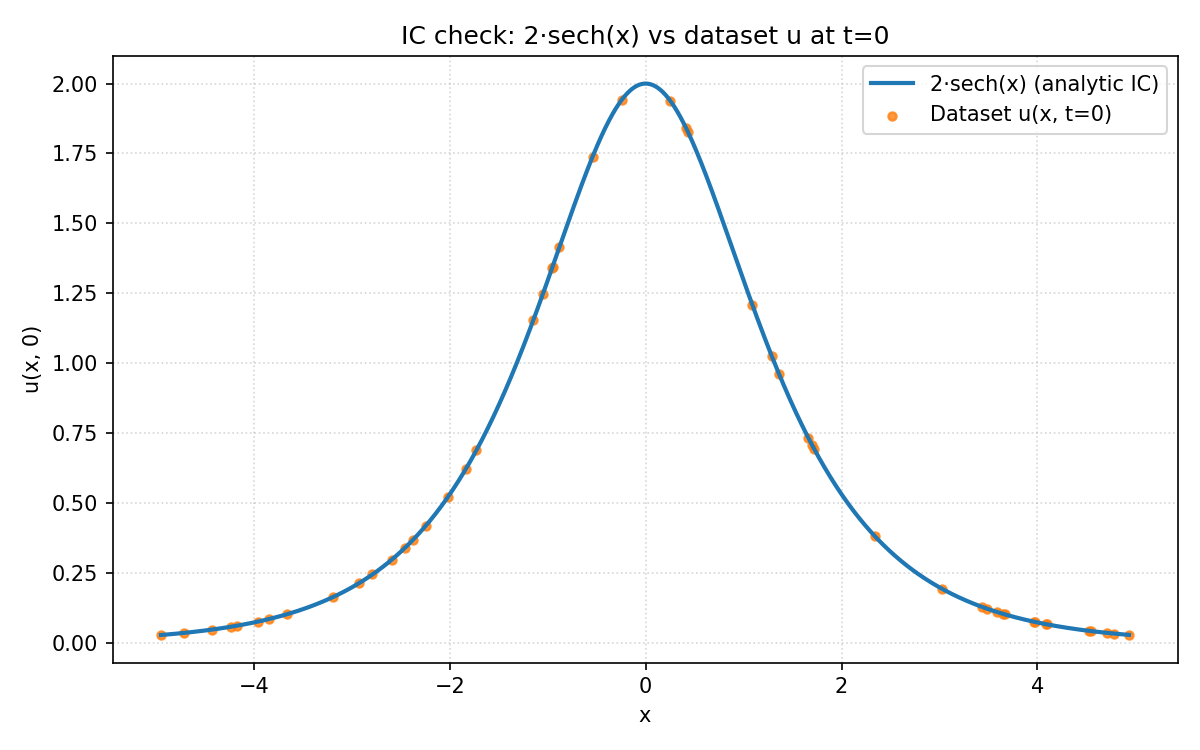
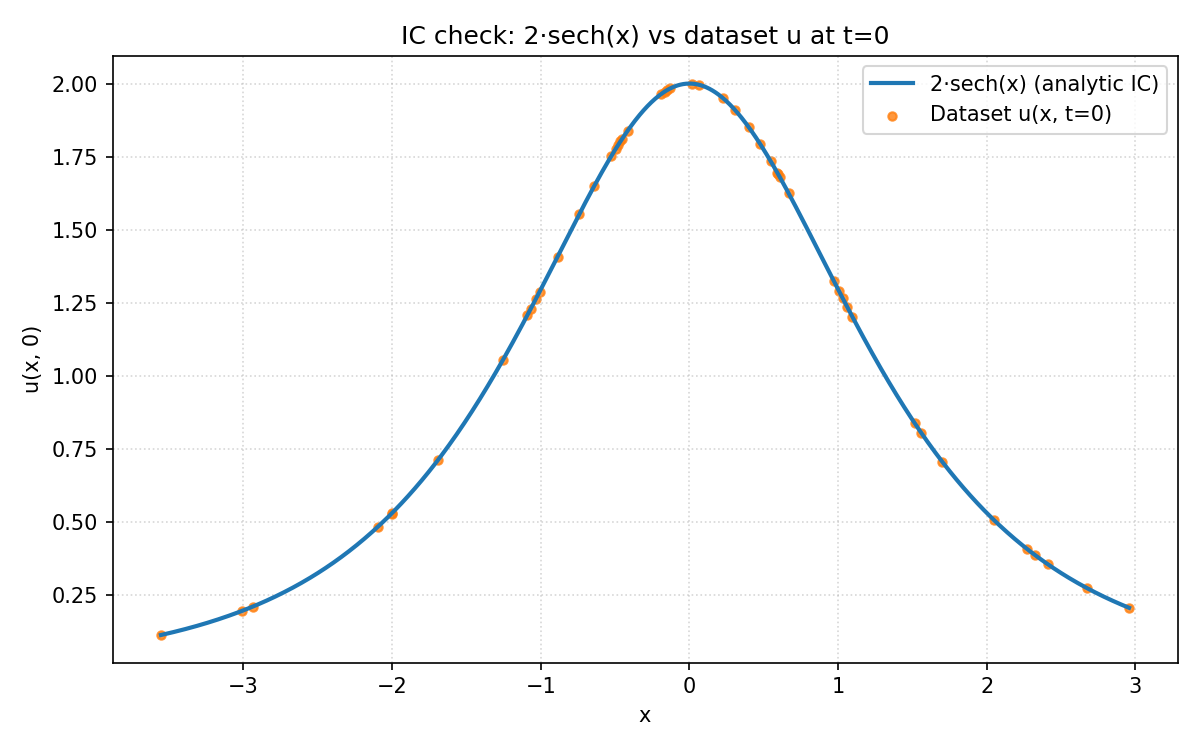
new sample method and notebook changes

diff --git a/tests/visualize_ic_samples.py b/tests/visualize_ic_samples.py
@@ -1,0 +1,201 @@
+"""Visualize initial condition (IC) sample distribution.
+
+This script shows how IC samples are distributed across the spatial domain
+with Gaussian bias toward the center where |h(x,0)| = |2*sech(x)| is large.
+
+Usage:
+    python tests/visualize_ic_samples.py
+"""
+
+import sys
+from pathlib import Path
+
+import matplotlib.pyplot as plt
+import numpy as np
+
+sys.path.insert(0, str(Path(__file__).parent.parent))
+
+from src.config_loader import load_config
+
+
+def sech(x):
+    """Hyperbolic secant function."""
+    return 1.0 / np.cosh(x)
+
+
+def visualize_ic_distribution(
+    n_samples: int = 1000,
+    ic_sigma: float = 1.2,
+    ic_mix: float = 0.7,
+    x_min: float = -5.0,
+    x_max: float = 5.0,
+    seed: int = 42,
+    save_path: str = "outputs/diagnostics/ic_sample_distribution.png",
+):
+    """Visualize IC sample distribution compared to the true IC function.
+    
+    Args:
+        n_samples: Number of samples to generate
+        ic_sigma: Standard deviation for Gaussian distribution
+        ic_mix: Fraction of Gaussian samples
+        x_min: Minimum x value
+        x_max: Maximum x value
+        seed: Random seed
+        save_path: Path to save figure
+    """
+    rng = np.random.RandomState(seed)
+    
+    # Generate samples with Gaussian bias
+    n_gaussian = int(n_samples * ic_mix)
+    n_uniform = n_samples - n_gaussian
+    
+    x_gaussian = rng.normal(loc=0.0, scale=ic_sigma, size=n_gaussian)
+    x_gaussian = np.clip(x_gaussian, x_min, x_max)
+    
+    x_uniform = rng.uniform(x_min, x_max, size=n_uniform)
+    
+    x_samples = np.concatenate([x_gaussian, x_uniform])
+    rng.shuffle(x_samples)
+    
+    # Also generate uniform samples for comparison
+    x_samples_uniform = rng.uniform(x_min, x_max, size=n_samples)
+    
+    # True IC function
+    x_dense = np.linspace(x_min, x_max, 1000)
+    ic_true = 2.0 * sech(x_dense)
+    
+    # Create figure
+    fig, axes = plt.subplots(2, 2, figsize=(14, 10))
+    
+    # Plot 1: Histogram of Gaussian-biased samples
+    ax = axes[0, 0]
+    ax.hist(x_samples, bins=50, alpha=0.7, color='C0', edgecolor='black', density=True)
+    ax.set_xlabel('x')
+    ax.set_ylabel('Sample Density')
+    ax.set_title(f'Gaussian-Biased IC Samples\n({ic_mix*100:.0f}% Gaussian, σ={ic_sigma})')
+    ax.grid(True, alpha=0.3)
+    ax.axvline(0, color='red', linestyle='--', linewidth=1, alpha=0.5, label='x=0 (center)')
+    ax.legend()
+    
+    # Plot 2: Histogram of uniform samples for comparison
+    ax = axes[0, 1]
+    ax.hist(x_samples_uniform, bins=50, alpha=0.7, color='C1', edgecolor='black', density=True)
+    ax.set_xlabel('x')
+    ax.set_ylabel('Sample Density')
+    ax.set_title('Uniform IC Samples (for comparison)')
+    ax.grid(True, alpha=0.3)
+    
+    # Plot 3: Samples vs IC function
+    ax = axes[1, 0]
+    ax.plot(x_dense, ic_true, 'b-', linewidth=2, label='|h(x,0)| = 2·sech(x)')
+    ax.scatter(x_samples, np.zeros_like(x_samples), 
+              alpha=0.3, s=20, color='C0', label=f'Gaussian-biased samples (n={n_samples})')
+    ax.set_xlabel('x')
+    ax.set_ylabel('|h(x, 0)|')
+    ax.set_title('IC Samples vs True IC Function')
+    ax.legend()
+    ax.grid(True, alpha=0.3)
+    
+    # Plot 4: Cumulative distribution comparison
+    ax = axes[1, 1]
+    x_sorted_biased = np.sort(x_samples)
+    x_sorted_uniform = np.sort(x_samples_uniform)
+    cdf_biased = np.arange(1, len(x_sorted_biased) + 1) / len(x_sorted_biased)
+    cdf_uniform = np.arange(1, len(x_sorted_uniform) + 1) / len(x_sorted_uniform)
+    
+    ax.plot(x_sorted_biased, cdf_biased, 'C0-', linewidth=2, label='Gaussian-biased')
+    ax.plot(x_sorted_uniform, cdf_uniform, 'C1--', linewidth=2, label='Uniform')
+    ax.set_xlabel('x')
+    ax.set_ylabel('Cumulative Probability')
+    ax.set_title('Cumulative Distribution Function')
+    ax.legend()
+    ax.grid(True, alpha=0.3)
+    ax.axvline(0, color='red', linestyle=':', linewidth=1, alpha=0.5)
+    
+    plt.tight_layout()
+    
+    # Save figure
+    save_path = Path(save_path)
+    save_path.parent.mkdir(parents=True, exist_ok=True)
+    plt.savefig(save_path, dpi=150, bbox_inches='tight')
+    print(f"✓ Saved IC distribution plot to: {save_path}")
+    
+    # Print statistics
+    print("\n" + "=" * 70)
+    print("IC Sample Distribution Statistics")
+    print("=" * 70)
+    print(f"\nConfiguration:")
+    print(f"  Total samples: {n_samples}")
+    print(f"  Gaussian samples: {n_gaussian} ({ic_mix*100:.0f}%)")
+    print(f"  Uniform samples: {n_uniform} ({(1-ic_mix)*100:.0f}%)")
+    print(f"  Gaussian σ: {ic_sigma}")
+    print(f"  Domain: [{x_min}, {x_max}]")
+    
+    print(f"\nGaussian-Biased Samples:")
+    print(f"  Mean: {np.mean(x_samples):.4f}")
+    print(f"  Std: {np.std(x_samples):.4f}")
+    print(f"  Min: {np.min(x_samples):.4f}")
+    print(f"  Max: {np.max(x_samples):.4f}")
+    print(f"  Median: {np.median(x_samples):.4f}")
+    
+    # Count samples in center region |x| < 2σ
+    center_mask = np.abs(x_samples) < (2 * ic_sigma)
+    print(f"\nSamples within |x| < {2*ic_sigma:.1f}: {np.sum(center_mask)} ({np.sum(center_mask)/n_samples*100:.1f}%)")
+    
+    print(f"\nUniform Samples (for comparison):")
+    print(f"  Mean: {np.mean(x_samples_uniform):.4f}")
+    print(f"  Std: {np.std(x_samples_uniform):.4f}")
+    
+    center_mask_uniform = np.abs(x_samples_uniform) < (2 * ic_sigma)
+    print(f"  Samples within |x| < {2*ic_sigma:.1f}: {np.sum(center_mask_uniform)} ({np.sum(center_mask_uniform)/n_samples*100:.1f}%)")
+    
+    print("\n" + "=" * 70)
+    
+    plt.show()
+
+
+def main():
+    """Main entry point."""
+    import argparse
+    
+    parser = argparse.ArgumentParser(
+        description="Visualize IC sample distribution with Gaussian bias"
+    )
+    parser.add_argument(
+        "--config",
+        type=str,
+        default="config/dataset.yaml",
+        help="Path to dataset config file",
+    )
+    parser.add_argument(
+        "--n-samples",
+        type=int,
+        default=1000,
+        help="Number of samples to generate (default: 1000)",
+    )
+    parser.add_argument(
+        "--save",
+        type=str,
+        default="outputs/diagnostics/ic_sample_distribution.png",
+        help="Path to save the plot",
+    )
+    args = parser.parse_args()
+    
+    # Load config
+    config = load_config(args.config)
+    
+    # Visualize
+    visualize_ic_distribution(
+        n_samples=args.n_samples,
+        ic_sigma=config.dataset.ic_sigma,
+        ic_mix=config.dataset.ic_mix,
+        x_min=config.solver.x_min,
+        x_max=config.solver.x_max,
+        seed=config.dataset.seed,
+        save_path=args.save,
+    )
+
+
+if __name__ == "__main__":
+    main()
+

diff --git a/src/data/generate_dataset.py b/src/data/generate_dataset.py
@@ -62,14 +62,25 @@ def sample_initial_condition(
     x_range: Tuple[float, float],
     t_value: float = 0.0,
     seed: int = 42,
+    ic_sigma: float = 1.2,
+    ic_mix: float = 0.7,
 ) -> Tuple[np.ndarray, np.ndarray]:
-    """Sample points on the initial condition boundary (t=0).
+    """Sample points on the initial condition boundary (t=0) with Gaussian bias.
+    
+    IC samples are drawn from a mixed distribution:
+    - (ic_mix * 100)% from a Gaussian centered at x=0 with std=ic_sigma
+    - ((1-ic_mix) * 100)% uniformly from [x_min, x_max]
+    
+    This biases samples toward the center where |h(x,0)| = |2*sech(x)| is large,
+    improving phase anchoring at t=0 while still covering the domain tails.
 
     Args:
         n_samples: Number of samples
         x_range: (x_min, x_max) tuple
         t_value: Time value (default 0.0)
         seed: Random seed
+        ic_sigma: Standard deviation for Gaussian distribution (default 1.2)
+        ic_mix: Fraction of Gaussian samples vs uniform (default 0.7 = 70% Gaussian)
 
     Returns:
         Tuple of (x_samples, t_samples) arrays
@@ -77,7 +88,22 @@ def sample_initial_condition(
     rng = np.random.RandomState(seed)
     x_min, x_max = x_range
 
-    x_samples = rng.uniform(x_min, x_max, size=n_samples)
+    # Split samples between Gaussian and uniform
+    n_gaussian = int(n_samples * ic_mix)
+    n_uniform = n_samples - n_gaussian
+    
+    # Gaussian samples centered at x=0
+    x_gaussian = rng.normal(loc=0.0, scale=ic_sigma, size=n_gaussian)
+    # Clip to domain
+    x_gaussian = np.clip(x_gaussian, x_min, x_max)
+    
+    # Uniform samples across the full domain
+    x_uniform = rng.uniform(x_min, x_max, size=n_uniform)
+    
+    # Combine and shuffle
+    x_samples = np.concatenate([x_gaussian, x_uniform])
+    rng.shuffle(x_samples)
+    
     t_samples = np.full(n_samples, t_value)
 
     return x_samples, t_samples
@@ -251,12 +277,15 @@ def generate_dataset(
     # 3. Generate initial condition samples
     if verbose:
         print(f"\n3. Sampling initial condition (N_0={dataset_cfg.n_initial}):")
+        print(f"   Gaussian bias: σ={dataset_cfg.ic_sigma}, mix={dataset_cfg.ic_mix*100:.0f}% Gaussian")
 
     x_0, t_0 = sample_initial_condition(
         n_samples=dataset_cfg.n_initial,
         x_range=(solver_cfg.x_min, solver_cfg.x_max),
         t_value=solver_cfg.t_min,
         seed=dataset_cfg.seed + 1,
+        ic_sigma=dataset_cfg.ic_sigma,
+        ic_mix=dataset_cfg.ic_mix,
     )
 
     if verbose:

diff --git a/src/data/generate_eval_dataset.py b/src/data/generate_eval_dataset.py
@@ -73,11 +73,26 @@ def generate_eval_dataset(
         u_bounds=[config.solver.t_max],
     ).flatten()
 
-    # Generate initial condition points (t=0)
+    # Generate initial condition points (t=0) with Gaussian bias
+    # IC samples are drawn from a Gaussian near x=0 to emphasize the region
+    # where |h(x,0)| is large. This improves phase anchoring at t=0.
     print("Generating initial condition points...")
-    x_0 = np.linspace(
-        config.solver.x_min, config.solver.x_max, n_initial, endpoint=False
-    )
+    print(f"  Gaussian bias: σ={config.dataset.ic_sigma}, mix={config.dataset.ic_mix*100:.0f}% Gaussian")
+    
+    rng = np.random.RandomState(config.dataset.seed + 1)
+    n_gaussian = int(n_initial * config.dataset.ic_mix)
+    n_uniform = n_initial - n_gaussian
+    
+    # Gaussian samples centered at x=0
+    x_gaussian = rng.normal(loc=0.0, scale=config.dataset.ic_sigma, size=n_gaussian)
+    x_gaussian = np.clip(x_gaussian, config.solver.x_min, config.solver.x_max)
+    
+    # Uniform samples across full domain
+    x_uniform = rng.uniform(config.solver.x_min, config.solver.x_max, size=n_uniform)
+    
+    # Combine and shuffle
+    x_0 = np.concatenate([x_gaussian, x_uniform])
+    rng.shuffle(x_0)
     t_0 = np.zeros(n_initial)
 
     # Generate boundary condition points (x = x_min and x = x_max)

diff --git a/src/config_loader.py b/src/config_loader.py
@@ -49,6 +49,8 @@ class DatasetConfig:
         sampling_method: Sampling method ('lhs' for Latin Hypercube)
         seed: Random seed for reproducibility
         save_path: Path to save generated dataset
+        ic_sigma: Standard deviation for Gaussian-biased IC sampling (default: 1.2)
+        ic_mix: Fraction of Gaussian samples vs uniform (default: 0.7 = 70% Gaussian)
     """
     n_collocation: int = 20000
     n_initial: int = 50
@@ -56,6 +58,8 @@ class DatasetConfig:
     sampling_method: str = "lhs"
     seed: int = 42
     save_path: str = "data/processed/dataset.npz"
+    ic_sigma: float = 1.2
+    ic_mix: float = 0.7
 
 
 @dataclass
